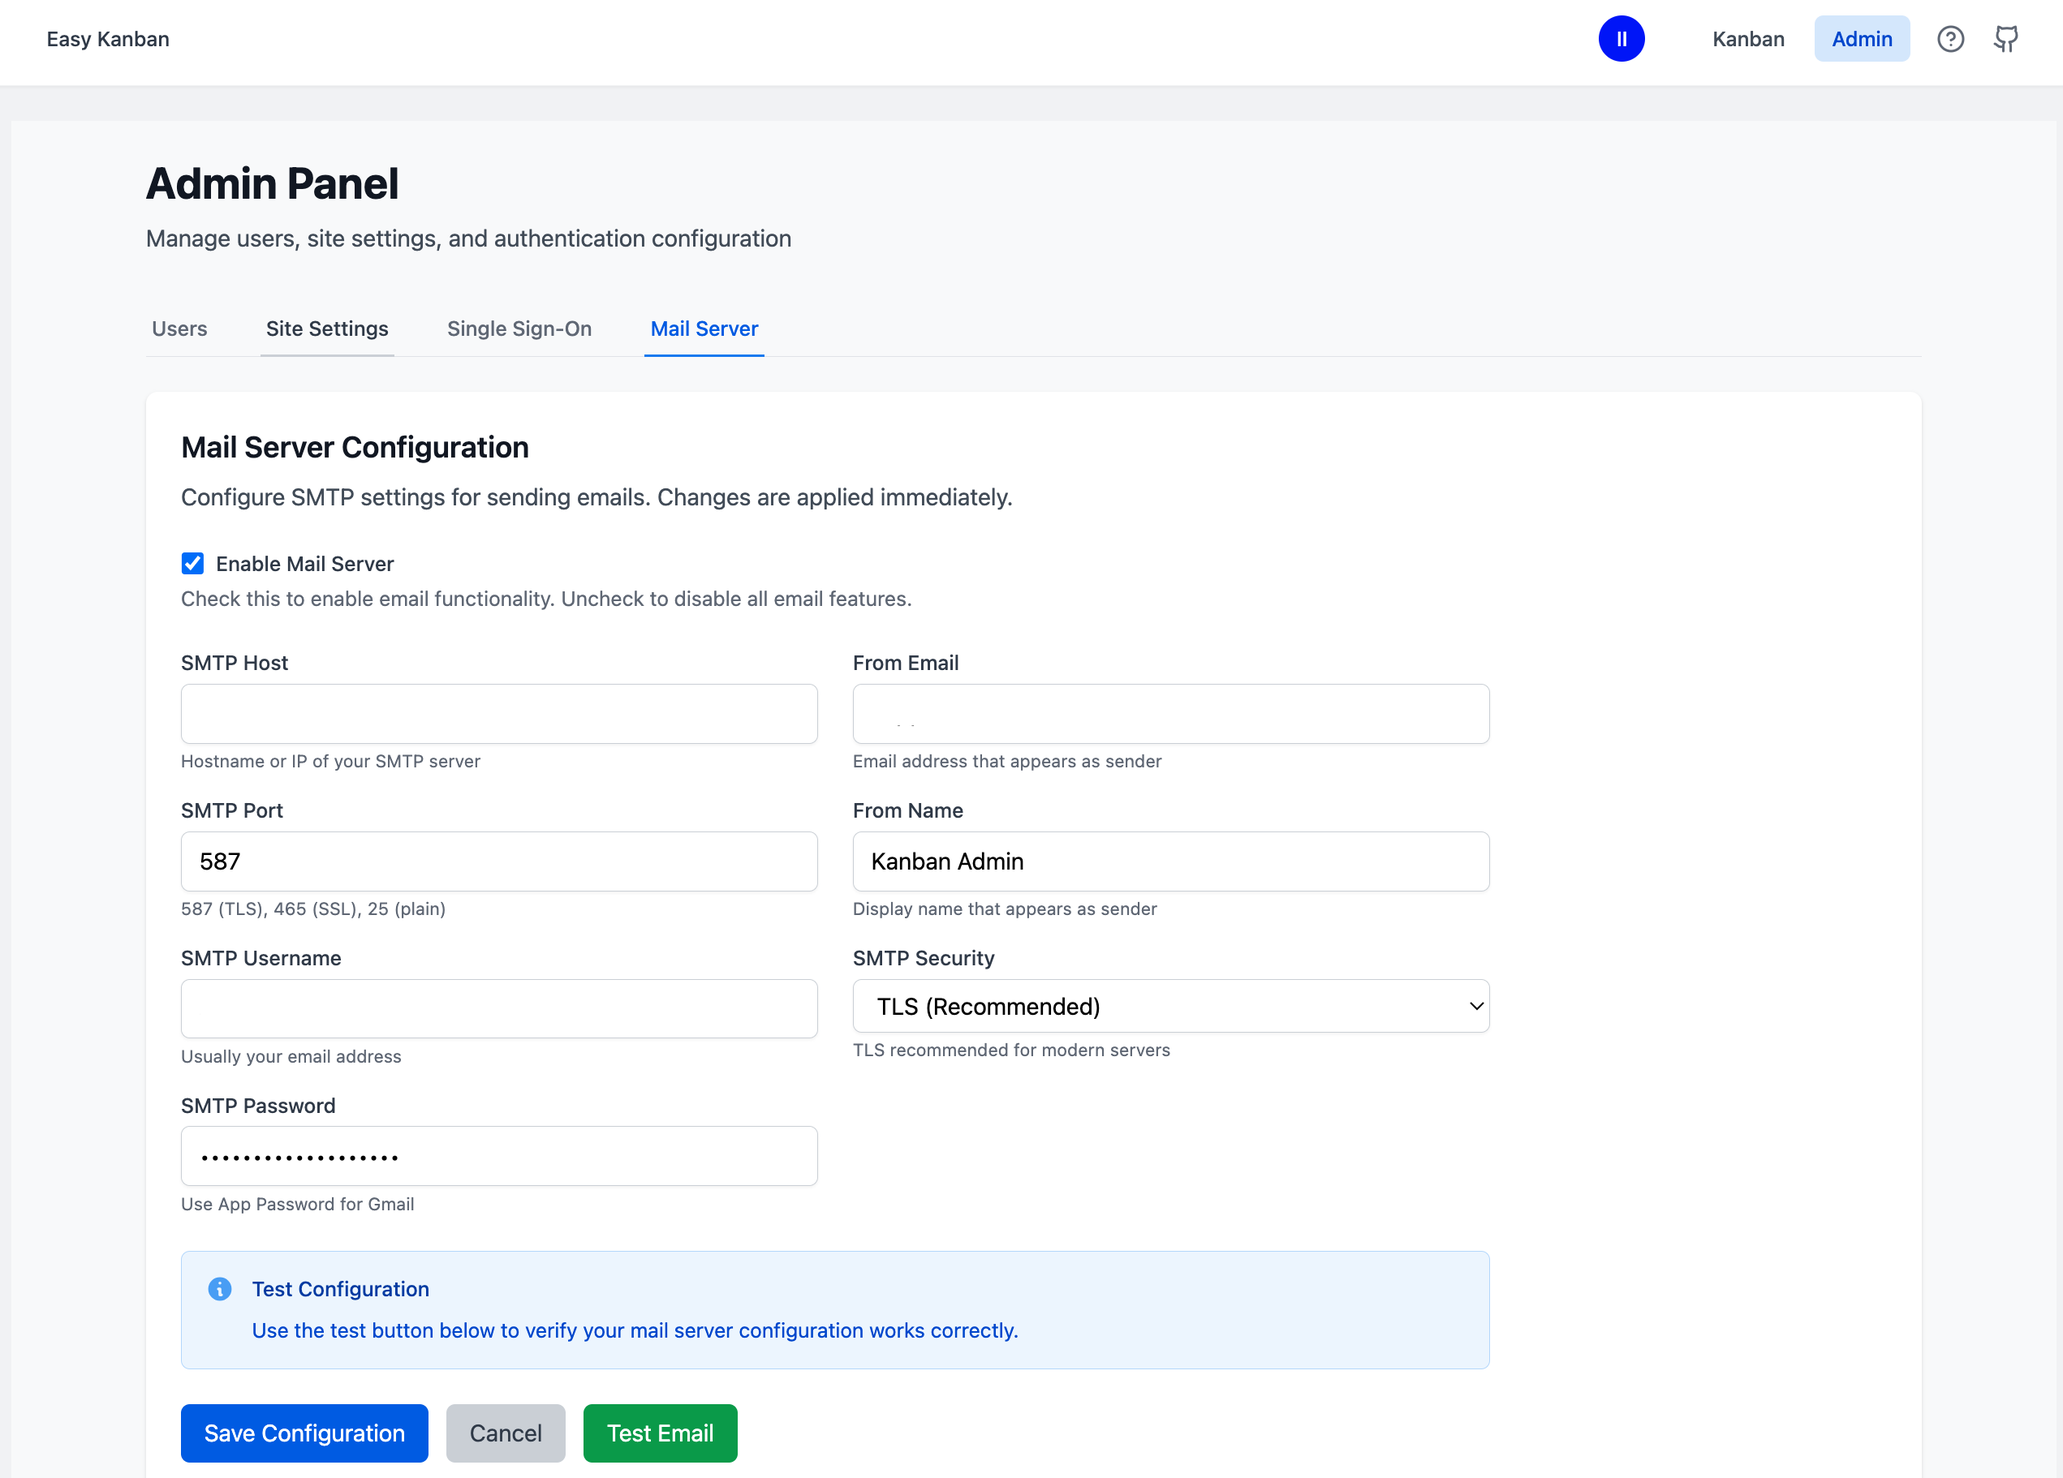
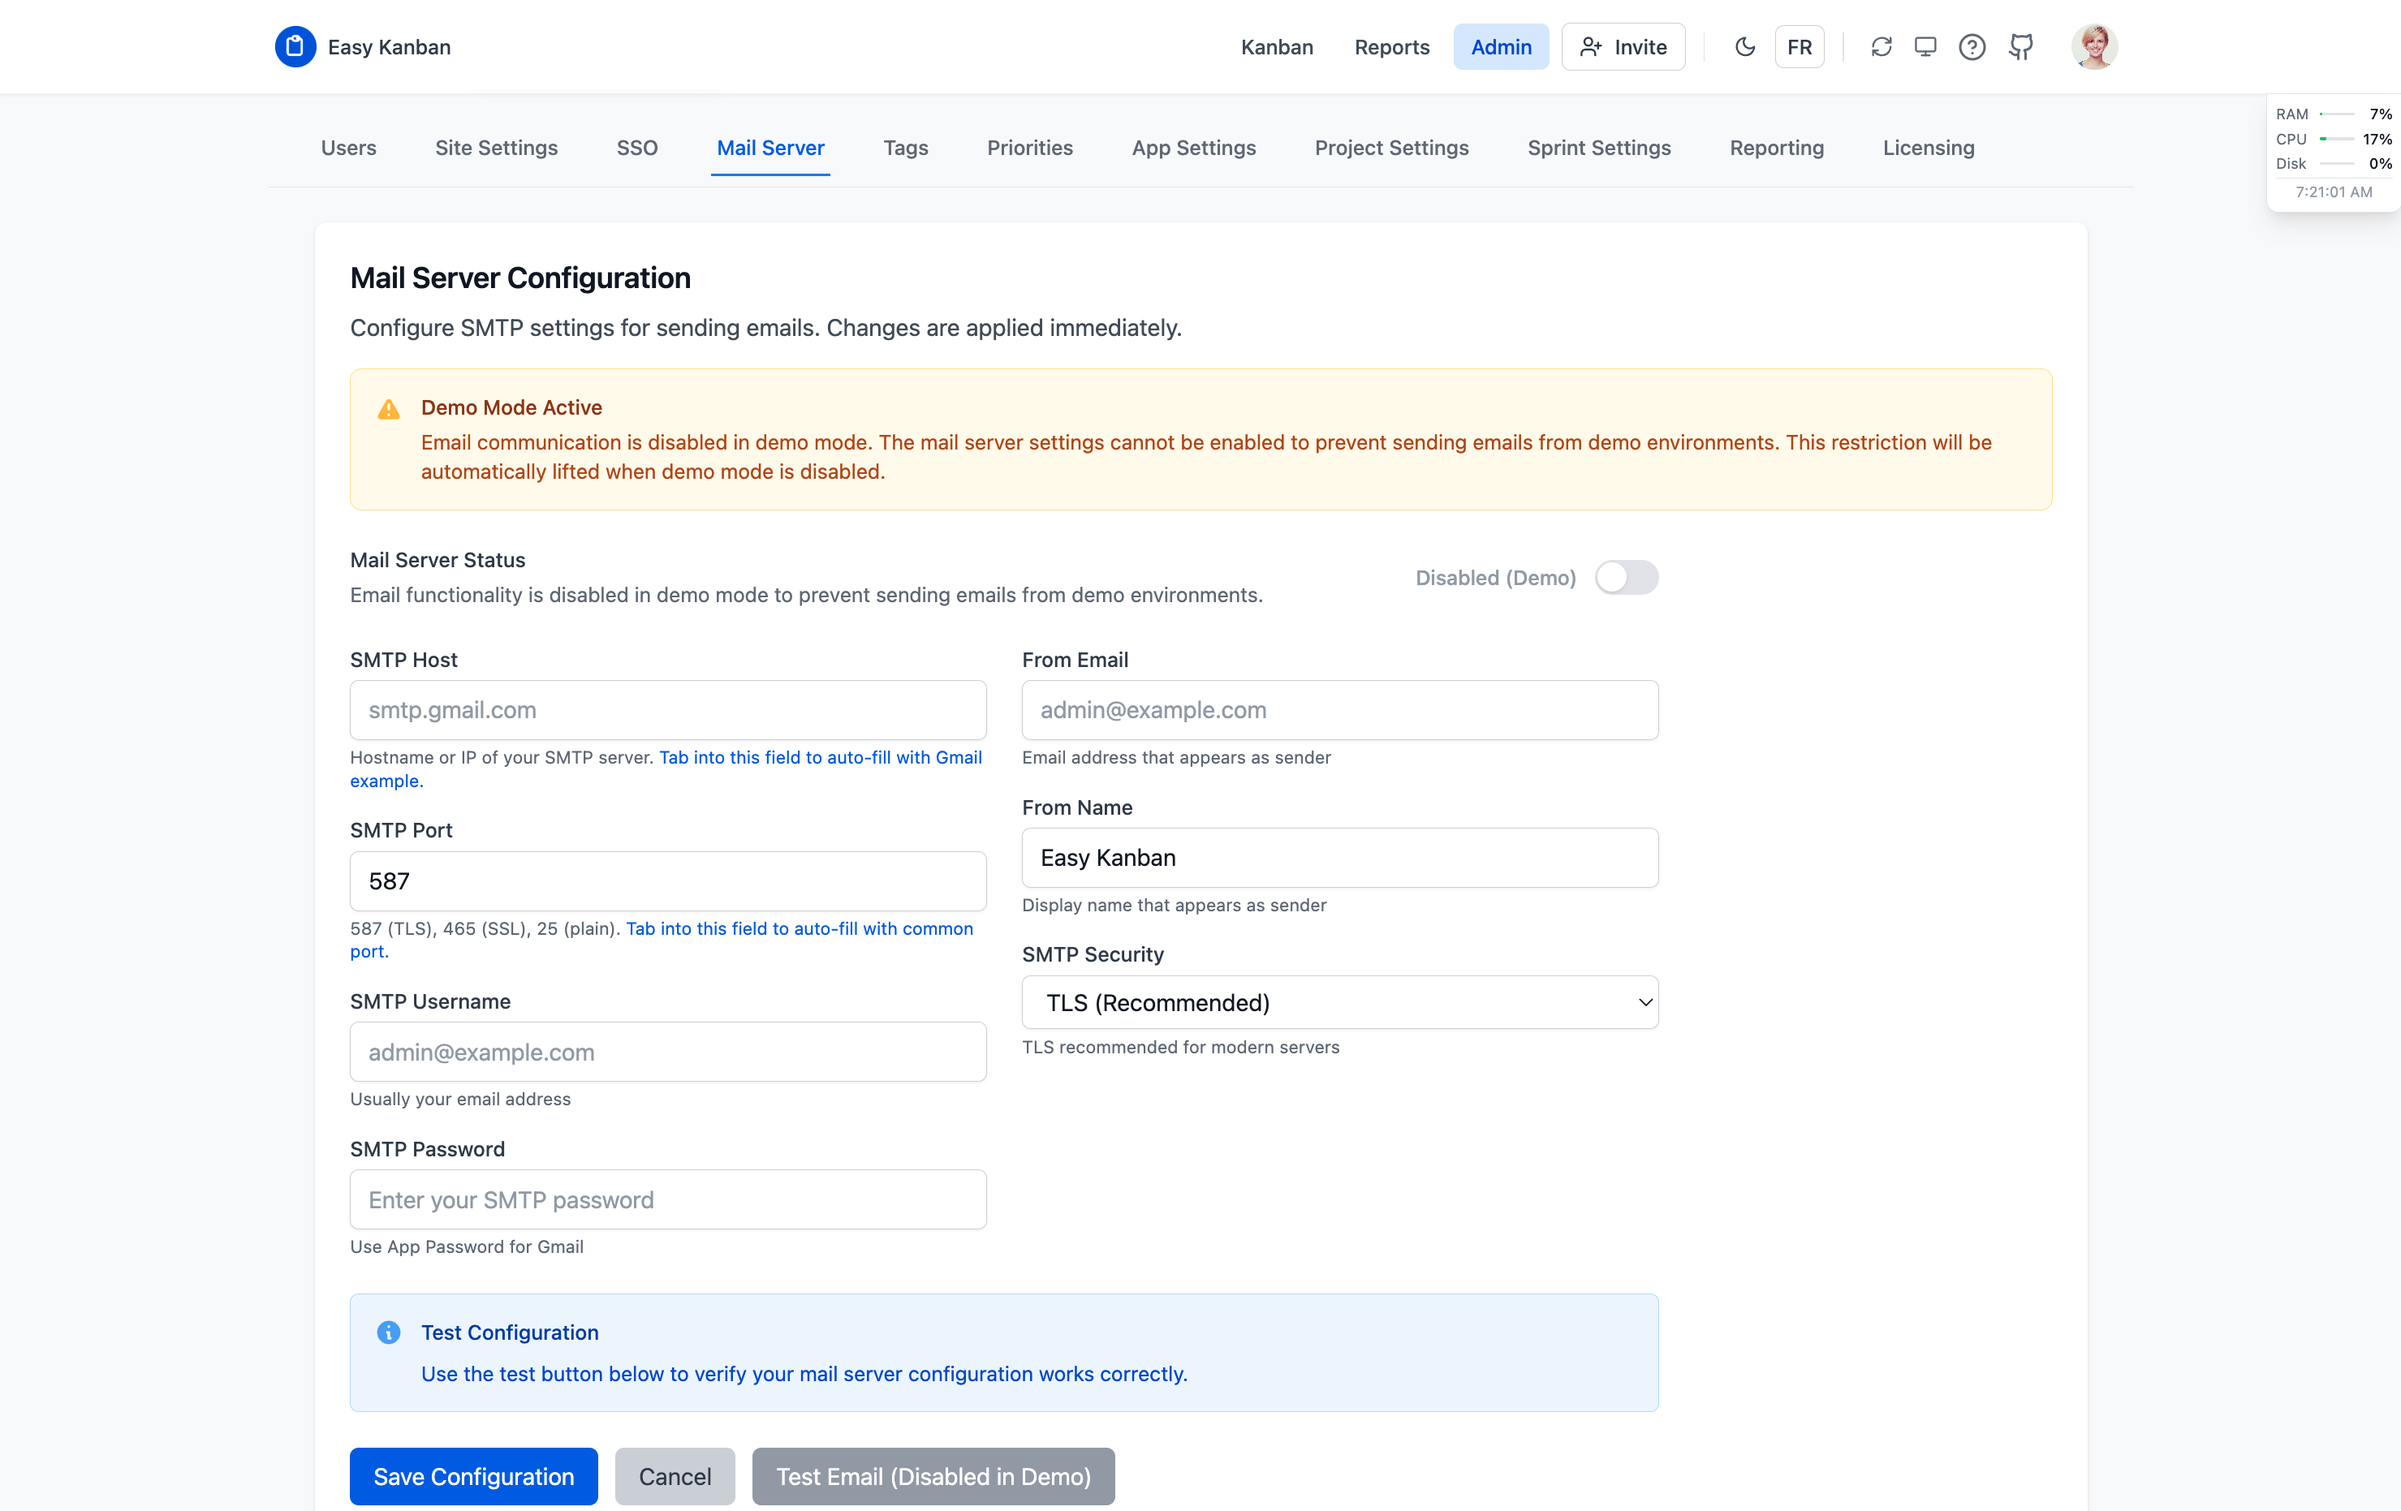
feat: Expand README and documentation for AI Agent features
- Updated the README to include details about the new optional AI Agent, its capabilities, and configuration settings.
- Enhanced the documentation for AI integration, including task assignment, automation features, and admin settings.
- Revised screenshots and descriptions in the documentation to better reflect the current UI and functionalities.
- Improved clarity in installation instructions and user guidance for configuring AI settings and managing tasks.

diff --git a/README.md b/README.md
@@ -1,12 +1,12 @@
 # Easy Kanban
 
-A collaborative **Kanban workspace** for teams: multi-board drag-and-drop, List and Gantt views, real-time collaboration, and optional sprint timeboxing with burndown. Built with React/TypeScript and Node.js/Express.
+A collaborative **Kanban workspace** for teams: multi-board drag-and-drop, List and Gantt views, real-time collaboration, optional sprint timeboxing with burndown, and an optional **AI Agent** that can assist on tasks, work linked Git repos, or (for admins) run board automations. Built with React/TypeScript and Node.js/Express.
 
 Easy Kanban is **not** a full enterprise agile ALM (no required Epic/Story types, ceremony tooling, or hard methodology lock-in). Soft WIP limits, card aging, blocked flags, and column policy notes help teams keep flow healthy without ceremony overhead.
 
 <img src="/screenshots/overview.png" alt="Screenshot of easy-kanban" width="100%">
 
-*[View all screenshots and features →](/screenshots/SCREENSHOTS.md)*
+*[View sample screenshots →](/screenshots/SCREENSHOTS.md)*
 
 ## Key Features
 
@@ -20,6 +20,14 @@ Easy Kanban is **not** a full enterprise agile ALM (no required Epic/Story types
 - **User authentication** with local accounts and Google OAuth support
 - **Role-based access control** (Admin/User permissions)
 - **Theme support** - Light and dark mode
+
+### AI Agent (optional)
+- **Assign tasks to an Agent** when an admin enables AI for the instance
+- **Assist** — Agent comments on the task using a configured LLM (OpenAI, Anthropic, OpenRouter, Ollama, or custom OpenAI-compatible)
+- **Code** — Agent works a linked Git repository via the push runner (users add Profile → Dev credentials: API token and/or SSH key)
+- **Automation** (admins) — board automation with dry-run review, Apply, and Undo
+- **Live activity** on the card (queued / running / waiting) with pause, stop, and resume
+- Configure in **Admin → AI Settings** (enable AI, provider, model, runner URL/token). Details: [Documentation.md — AI Agent](/Documentation.md#ai-agent) and [`docs/AI_INTEGRATION.md`](/docs/AI_INTEGRATION.md)
 
 ### Task Management
 - **Task management** with priorities, comments, and file attachments
@@ -59,6 +67,7 @@ Easy Kanban is **not** a full enterprise agile ALM (no required Epic/Story types
 - **Site settings** - Configure site name, URL, and global preferences
 - **SSO configuration** - Google OAuth Single Sign-On setup
 - **Mail server** - SMTP configuration for email notifications and invitations
+- **AI Settings** - Enable the AI Agent, choose LLM provider/model, and configure the agent runner
 - **Tags management** - Create and manage custom tags with colors
 - **Priorities management** - Customize priority levels with names and colors
 - **App settings** - Configure default language, view modes, and application behavior
@@ -84,7 +93,7 @@ Easy Kanban is **not** a full enterprise agile ALM (no required Epic/Story types
 
 **Default Admin Account:**
 - Email: `admin@kanban.local`
-- Password: `generated` at initialization - look for it in the backend console log
+- Password: `generated` at initialization - look for it in the backend console log (or on the login page when demo mode is enabled)
 
 1. Log in with the default admin account
 2. Go to the admin panel and setup:
@@ -93,10 +102,11 @@ Easy Kanban is **not** a full enterprise agile ALM (no required Epic/Story types
    3. Review the Project Settings
    4. Add sprints in the Sprint Settings
    5. Review Reports Settings
-4. Create team members in the Users Tab
-5. Go to Kanban View and set up your boards and columns
-6. Start creating and managing tasks
-7. Configure Google OAuth (optional) in Admin > SSO settings
+3. Create team members in the Users Tab
+4. Go to Kanban View and set up your boards and columns
+5. Start creating and managing tasks
+6. Configure Google OAuth (optional) in Admin > SSO settings
+7. Configure AI Agent (optional) in Admin > AI Settings — for coding jobs, users then add Profile → Dev credentials
 
 ## Permissions
 
@@ -108,6 +118,8 @@ Easy Kanban is **not** a full enterprise agile ALM (no required Epic/Story types
 | Add comments and attachments | ✓ | ✓ |
 | Move tasks between columns | ✓ | ✓ |
 | Associate tasks with sprints | ✓ | ✓ |
+| Assign tasks to AI Agent (when enabled) | ✓ | ✓ |
+| Configure AI Agent / runner | ✓ | ✗ |
 | Create/edit/delete boards | ✓ | ✗ |
 | Reorder boards and columns | ✓ | ✗ |
 | Manage columns (add/remove/reorder) | ✓ | ✗ |
@@ -122,12 +134,13 @@ Easy Kanban is **not** a full enterprise agile ALM (no required Epic/Story types
 | View Leaderboard (when enabled) | ✓ | ✓* |
 | Update own profile | ✓ | ✓ |
 | Configure own notifications | ✓ | ✓ |
+| Manage own Dev credentials (API token / SSH) | ✓ | ✓ |
 
 *Some reports may be restricted to admins only depending on settings
 
 ## Requirements
 
-- nodejs v 20.18
+- Node.js v20.18+
 
 ## Installation
 
@@ -146,6 +159,7 @@ cp docker-compose-example.yml docker-compose.yml
    - `JWT_SECRET`: Set a strong secret key for authentication
    - `ALLOWED_ORIGINS`: Set your domain(s), e.g., `yourdomain.com`
    - `DEMO_ENABLED`: Set to `true` to try the demo with generated data, `false` for production
+   - Optional AI runner (for Agent **Code** jobs): `AI_RUNNER_URL`, `AI_CALLBACK_BASE_URL`, `RUNNER_TOKEN` (see compose example / `docker-compose-pro.yml`)
 
 2. Start the application:
 ```bash
@@ -204,13 +218,13 @@ The application includes JWT-based authentication and role-based access control.
 - Consider additional network security measures
 
 ## Authors and acknowledgment
-Developped with AI assistance
+Developed with AI assistance
 
 ## License
 
 MIT License
 
-Copyright (c) 2024 Easy Kanban
+Copyright (c) 2024–2026 Easy Kanban
 
 Permission is hereby granted, free of charge, to any person obtaining a copy
 of this software and associated documentation files (the "Software"), to deal
@@ -233,5 +247,3 @@ SOFTWARE.
 ## Project status
 
 Improvements are always welcome.
-
-

diff --git a/screenshots/SCREENSHOTS.md b/screenshots/SCREENSHOTS.md
@@ -1,74 +1,63 @@
 # Easy Kanban Screenshots
 
-This document showcases the key features and interfaces of the Easy Kanban application.
+This document showcases a sample set of screenshots from the Easy Kanban interface.
 
-## Overview - Main Kanban Board
+---
 
-The main interface showing the Kanban board with multiple columns, tasks, and team members.
+## Overview — Main Kanban Board
+
+The main board with columns, task cards, team filters, and board progress.
 
 ![Overview](overview.png)
 
-*Features shown: Multi-column layout, color-coded team members, task cards with assignments, drag-and-drop functionality*
+*Multi-column board, task cards (IDs, assignees, priorities, tags, effort and dates), team member and role filters, board progress, sprint selector, and navigation to Reports and Admin*
 
 ---
 
 ## Task Details & Comments
 
-Detailed task view with rich text comments, file attachments, and task management options.
+Selected task with the details side panel open, plus a comment preview on another card.
 
 ![Task Details](task_details_view_and_comment_tooltip.png)
 
-*Features shown: Task information panel, comment system with timestamps, file attachment support, task assignment options*
+*Task details panel (assignee, requester, watchers, collaborators, dates, effort, blocked state, priority, tags), comment tooltip on a card, and the board behind the panel*
 
 ---
 
 ## User Profile Management
 
-User profile interface for managing personal settings and avatar.
+User settings modal for profile and related preferences.
 
 ![User Profile](user-profile.png)
 
-*Features shown: Profile settings, avatar upload, display name customization, account information*
+*Profile Settings (avatar, display name), App Settings and Notifications tabs, and account deletion options*
 
 ---
 
-## Admin Panel - User Management
+## Admin Panel — User Management
 
-Administrative interface for managing team members and user accounts.
+Admin Users tab for accounts, roles, and status.
 
 ![Admin Users](admin-users.png)
 
-*Features shown: User list with roles, account status management, user creation/editing, permission controls*
+*User table with status, role, auth type, and color; add and edit actions; admin navigation across site, auth, mail, and project settings*
 
 ---
 
-## Admin Panel - SSO Configuration
+## Admin Panel — SSO Configuration
 
-Single Sign-On configuration panel for Google OAuth integration.
+Google OAuth / SSO settings.
 
 ![Admin SSO](admin-SSO.png)
 
-*Features shown: Google OAuth setup, client ID/secret configuration, callback URL settings*
+*Google Client ID, Client Secret, and callback URL; SSO debug logging; save and reload OAuth controls*
 
 ---
 
-## Admin Panel - Mail Server Settings
+## Admin Panel — Mail Server Settings
 
-Email server configuration for system notifications and communications.
+SMTP configuration for outbound mail (demo build shown with mail disabled).
 
 ![Admin Mail Server](admin-mail-server.png)
 
-*Features shown: SMTP configuration, email testing, mail server settings, notification setup*
-
----
-
-## Key Features Demonstrated
-
-- **Multi-board Kanban system** with intuitive drag-and-drop
-- **Rich task management** with comments and file attachments
-- **User authentication** with profile customization
-- **Comprehensive admin panel** for system management
-- **Google OAuth integration** for seamless login
-- **Email system integration** for notifications
-- **Role-based permissions** with admin/user distinctions
-- **Modern, responsive UI** that works across devices
+*SMTP host, port, credentials, from address and name, TLS security, demo-mode sending restriction, and save / test email actions*
